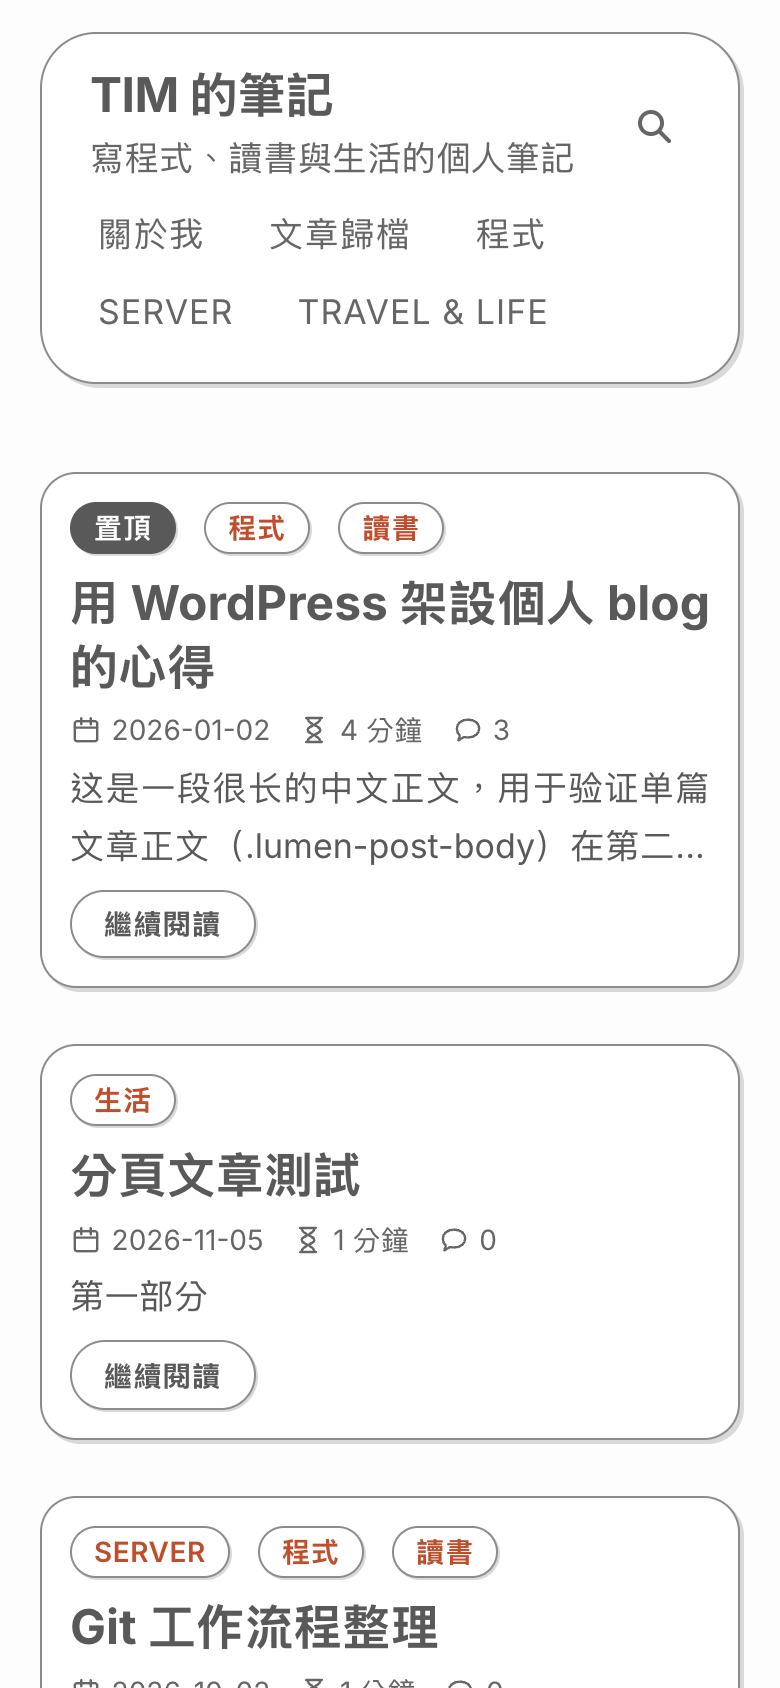
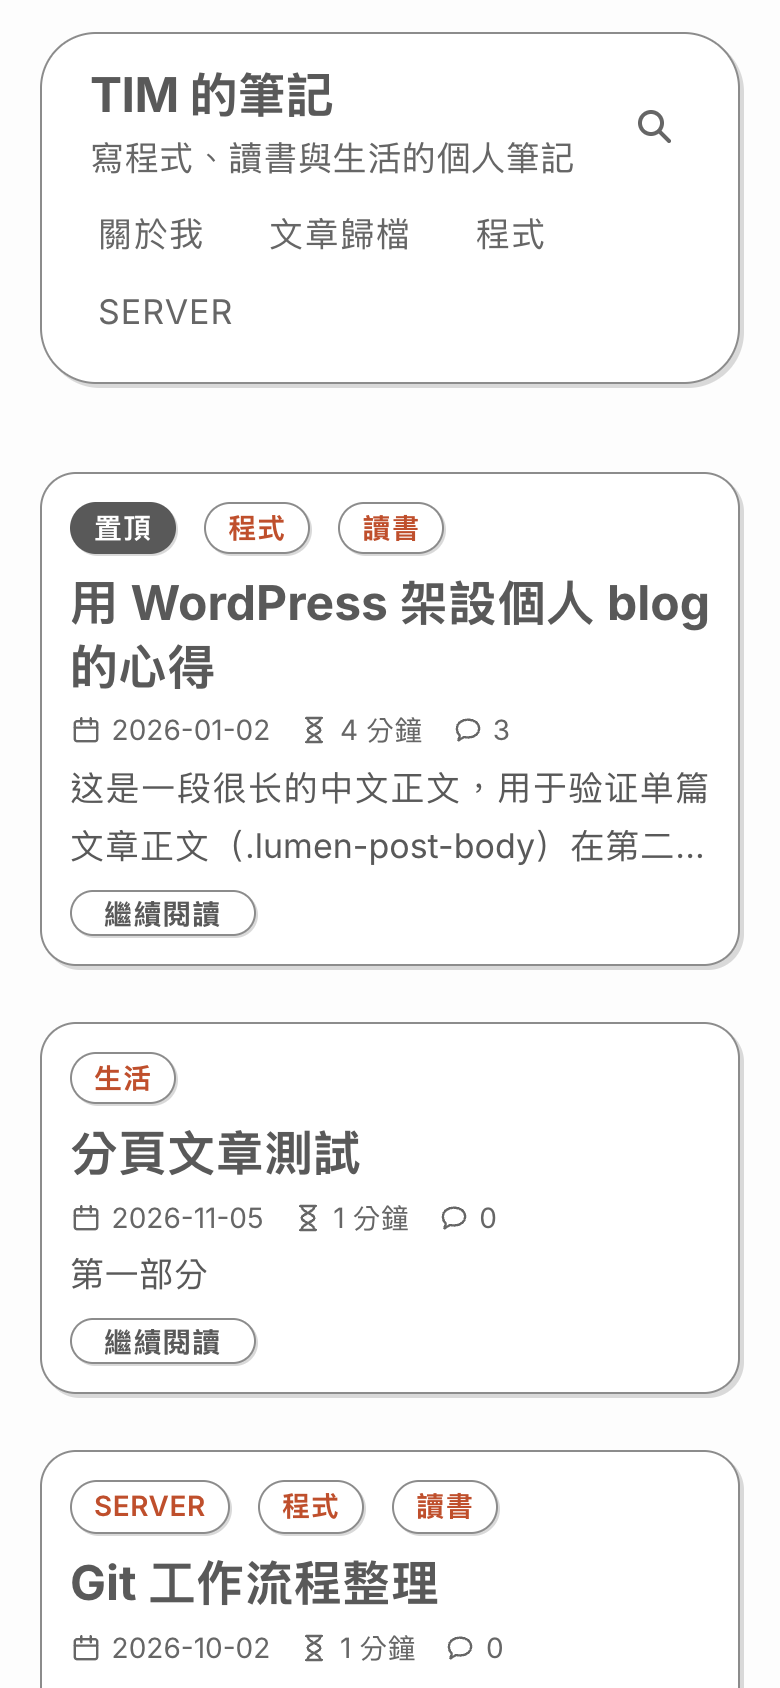
feat(theme): v1.3.3 — slimmer buttons, breadcrumb capsule header
- Buttons (Read more, Back to home, prev/next) lose their vertical
  padding: 34px -> 23px tall.
- Archive and search headers: the breadcrumb becomes an outlined capsule
  (17px, moved up), the current item in the accent colour; the duplicate
  big title is replaced by a visually hidden <h1>; the post / result
  count sits on the same row, vertically centred.

diff --git a/lumen/assets/css/main.css b/lumen/assets/css/main.css
@@ -42,7 +42,7 @@
 	/* The one accent colour. Used for exactly three things:
 	   1. category pills;
 	   2. the hover state of anything clickable (links, icons, buttons);
-	   3. the current item in the header menu ("you are here").
+	   3. "you are here": the current menu item and breadcrumb.
 	   Everything else is neutral. Never add a second red. */
 	--accent: #bf4f2c;
 	--footer-bg: #616161;
@@ -117,7 +117,6 @@
    buttons, breadcrumbs and comment actions. Chinese is unaffected. Titles,
    body text and dates keep their own case. */
 .lumen-site-title,
-.lumen-page-title,
 .lumen-menu a,
 .lumen-pill,
 .lumen-button,
@@ -638,7 +637,7 @@ a.lumen-stat:hover {
 	justify-content: center;
 	text-align: center;
 	white-space: nowrap;
-	padding: 0.35rem 1rem;
+	padding: 0 1rem; /* 23px tall */
 	font: inherit;
 	font-size: var(--text-sm);
 	font-weight: 600;
@@ -773,12 +772,15 @@ a.lumen-stat:hover {
 	line-clamp: 2;
 }
 
-/* Archive / search heading: big title, count, breadcrumbs. */
-/* Breadcrumbs → title + count → description / search, --space apart. */
+/* Archive / search heading: one row with the breadcrumb capsule and the
+   post count, then the description or search box, --space apart. The
+   page name lives in the breadcrumb (current item in the accent red); a
+   visually hidden <h1> keeps the heading structure. */
 .lumen-page-header {
 	display: grid;
 	justify-items: start;
 	gap: var(--space);
+	margin-top: calc(-1 * var(--space));
 	margin-bottom: calc(2 * var(--space));
 }
 
@@ -786,29 +788,25 @@ a.lumen-stat:hover {
 	display: flex;
 	flex-wrap: wrap;
 	align-items: center;
-	gap: 0.5rem 1rem;
+	gap: var(--space);
 }
 
-.lumen-page-title {
-	margin: 0;
-	min-width: 0;
-	font-size: var(--text-2xl);
-	line-height: 1.25;
-	color: var(--fg-soft);
-}
-
-/* Breadcrumbs: a small, quiet trail above the title — house icon for
-   Home, light chevrons, the current place in bold. */
+/* Breadcrumbs: an outlined capsule like the buttons — house icon for
+   Home, light chevrons, the current place in bold accent red. */
 .lumen-breadcrumbs ol {
 	display: flex;
 	flex-wrap: wrap;
 	align-items: center;
 	margin: 0;
-	padding: 0;
+	padding: 0.4rem 1.1rem;
 	list-style: none;
-	font-size: var(--text-sm);
+	font-size: var(--text-base);
 	line-height: 1.5;
 	color: var(--muted);
+	background: var(--card);
+	border: 1px solid var(--line);
+	border-radius: var(--round);
+	box-shadow: var(--hard-sm);
 }
 
 .lumen-breadcrumbs li {
@@ -827,7 +825,7 @@ a.lumen-stat:hover {
 .lumen-breadcrumbs a {
 	display: inline-flex;
 	align-items: center;
-	gap: 0.35rem;
+	gap: 0.4rem;
 	color: var(--muted);
 }
 
@@ -836,25 +834,13 @@ a.lumen-stat:hover {
 }
 
 .lumen-breadcrumbs .lumen-icon {
-	width: 0.95rem;
-	height: 0.95rem;
-}
-
-/* Trim line-height leading so the visible gaps match --space. */
-.lumen-breadcrumbs ol,
-.lumen-page-title {
-	text-box: trim-both text;
-}
-
-/* Capitals leave empty space above the letters; pull the heading row up
-   so the visible gap under the breadcrumbs is ~--space (measured). */
-.lumen-breadcrumbs + .lumen-page-heading {
-	margin-top: -0.75rem;
+	width: 1.05rem;
+	height: 1.05rem;
 }
 
 .lumen-breadcrumbs [aria-current="page"] {
 	font-weight: 600;
-	color: var(--fg);
+	color: var(--accent);
 }
 
 .lumen-page-description {
@@ -1217,7 +1203,7 @@ pre {
 	align-items: center;
 	justify-content: center;
 	text-align: center;
-	padding: 0.2rem 0.9rem;
+	padding: 0 0.9rem;
 	font-size: var(--text-sm);
 	line-height: 1.5;
 	white-space: nowrap;

diff --git a/lumen/style.css b/lumen/style.css
@@ -4,7 +4,7 @@ Theme URI: https://github.com/wwintj/lumen
 Author: Lumen Team
 Author URI: https://github.com/wwintj
 Description: A personal blog theme for Chinese and English writing: outlined cards in a two-column masonry, a one-line capsule header, one accent colour, automatic dark mode, reading time, and a year-by-year archive page. Zero JavaScript; English text uses a bundled 29 KB subset of Inter (SIL OFL 1.1).
-Version: 1.3.2
+Version: 1.3.3
 Requires at least: 6.3
 Tested up to: 7.1
 Requires PHP: 8.2

diff --git a/lumen/template-parts/archive-header.php b/lumen/template-parts/archive-header.php
@@ -13,9 +13,10 @@ $lumen_object      = get_queried_object();
 $lumen_description = ( $lumen_object instanceof WP_Term ) ? $lumen_object->description : '';
 ?>
 <header class="lumen-page-header">
-	<?php lumen_the_breadcrumbs(); ?>
+	<?php // The breadcrumb names the page visually; the H1 stays for structure. ?>
+	<h1 class="screen-reader-text"><?php echo esc_html( lumen_get_archive_title() ); ?></h1>
 	<div class="lumen-page-heading">
-		<h1 class="lumen-page-title"><?php echo esc_html( lumen_get_archive_title() ); ?></h1>
+		<?php lumen_the_breadcrumbs(); ?>
 		<span class="lumen-pill"><?php echo esc_html( lumen_posts_count_label( $GLOBALS['wp_query']->found_posts ) ); ?></span>
 	</div>
 	<?php if ( '' !== trim( (string) $lumen_description ) ) : ?>

diff --git a/lumen/search.php b/lumen/search.php
@@ -16,9 +16,9 @@ $lumen_found = (int) $GLOBALS['wp_query']->found_posts;
 ?>
 <div class="lumen-wide">
 	<header class="lumen-page-header">
-		<?php lumen_the_breadcrumbs(); ?>
+		<h1 class="screen-reader-text"><?php esc_html_e( 'Search', 'lumen' ); ?></h1>
 		<div class="lumen-page-heading">
-			<h1 class="lumen-page-title"><?php esc_html_e( 'Search', 'lumen' ); ?></h1>
+			<?php lumen_the_breadcrumbs(); ?>
 			<?php if ( '' !== $lumen_query ) : ?>
 				<span class="lumen-pill">
 					<?php

diff --git a/lumen/functions.php b/lumen/functions.php
@@ -11,7 +11,7 @@ if ( ! defined( 'ABSPATH' ) ) {
 	exit;
 }
 
-define( 'LUMEN_VERSION', '1.3.2' );
+define( 'LUMEN_VERSION', '1.3.3' );
 define( 'LUMEN_DIR', get_template_directory() );
 define( 'LUMEN_URI', get_template_directory_uri() );
 

diff --git a/CHANGELOG.md b/CHANGELOG.md
@@ -2,6 +2,15 @@
 
 正式發布版本、ZIP 與校驗碼以 [GitHub Releases](https://github.com/wwintj/lumen/releases) 為準。
 
+## 1.3.3
+
+- **按鈕更扁**：READ MORE、BACK TO HOME、上一篇／下一篇按鈕的上下內距移除，高度由 34px 變為 23px（原來的 2/3）。
+- **彙整頁頂部重新排版**（分類、標籤、作者、日期、搜尋）：
+  - 麵包屑改為與按鈕同款的描邊膠囊，字級 14px → 17px，並往上移（頁首到麵包屑 30px）。
+  - 目前位置以強調色（磚紅）粗體顯示，與選單的目前項目一致。
+  - 去掉與麵包屑重複的大標題；保留視覺隱藏的 `<h1>`，每頁仍只有一個 H1。
+  - 篇數（或搜尋結果數）移到麵包屑右側同一行，垂直置中。
+
 ## 1.3.2
 
 - **英文字型**：英文改用內建的 **Inter**（SIL OFL 1.1），只保留拉丁字元與字重 400–700，檔案 29 KB，
